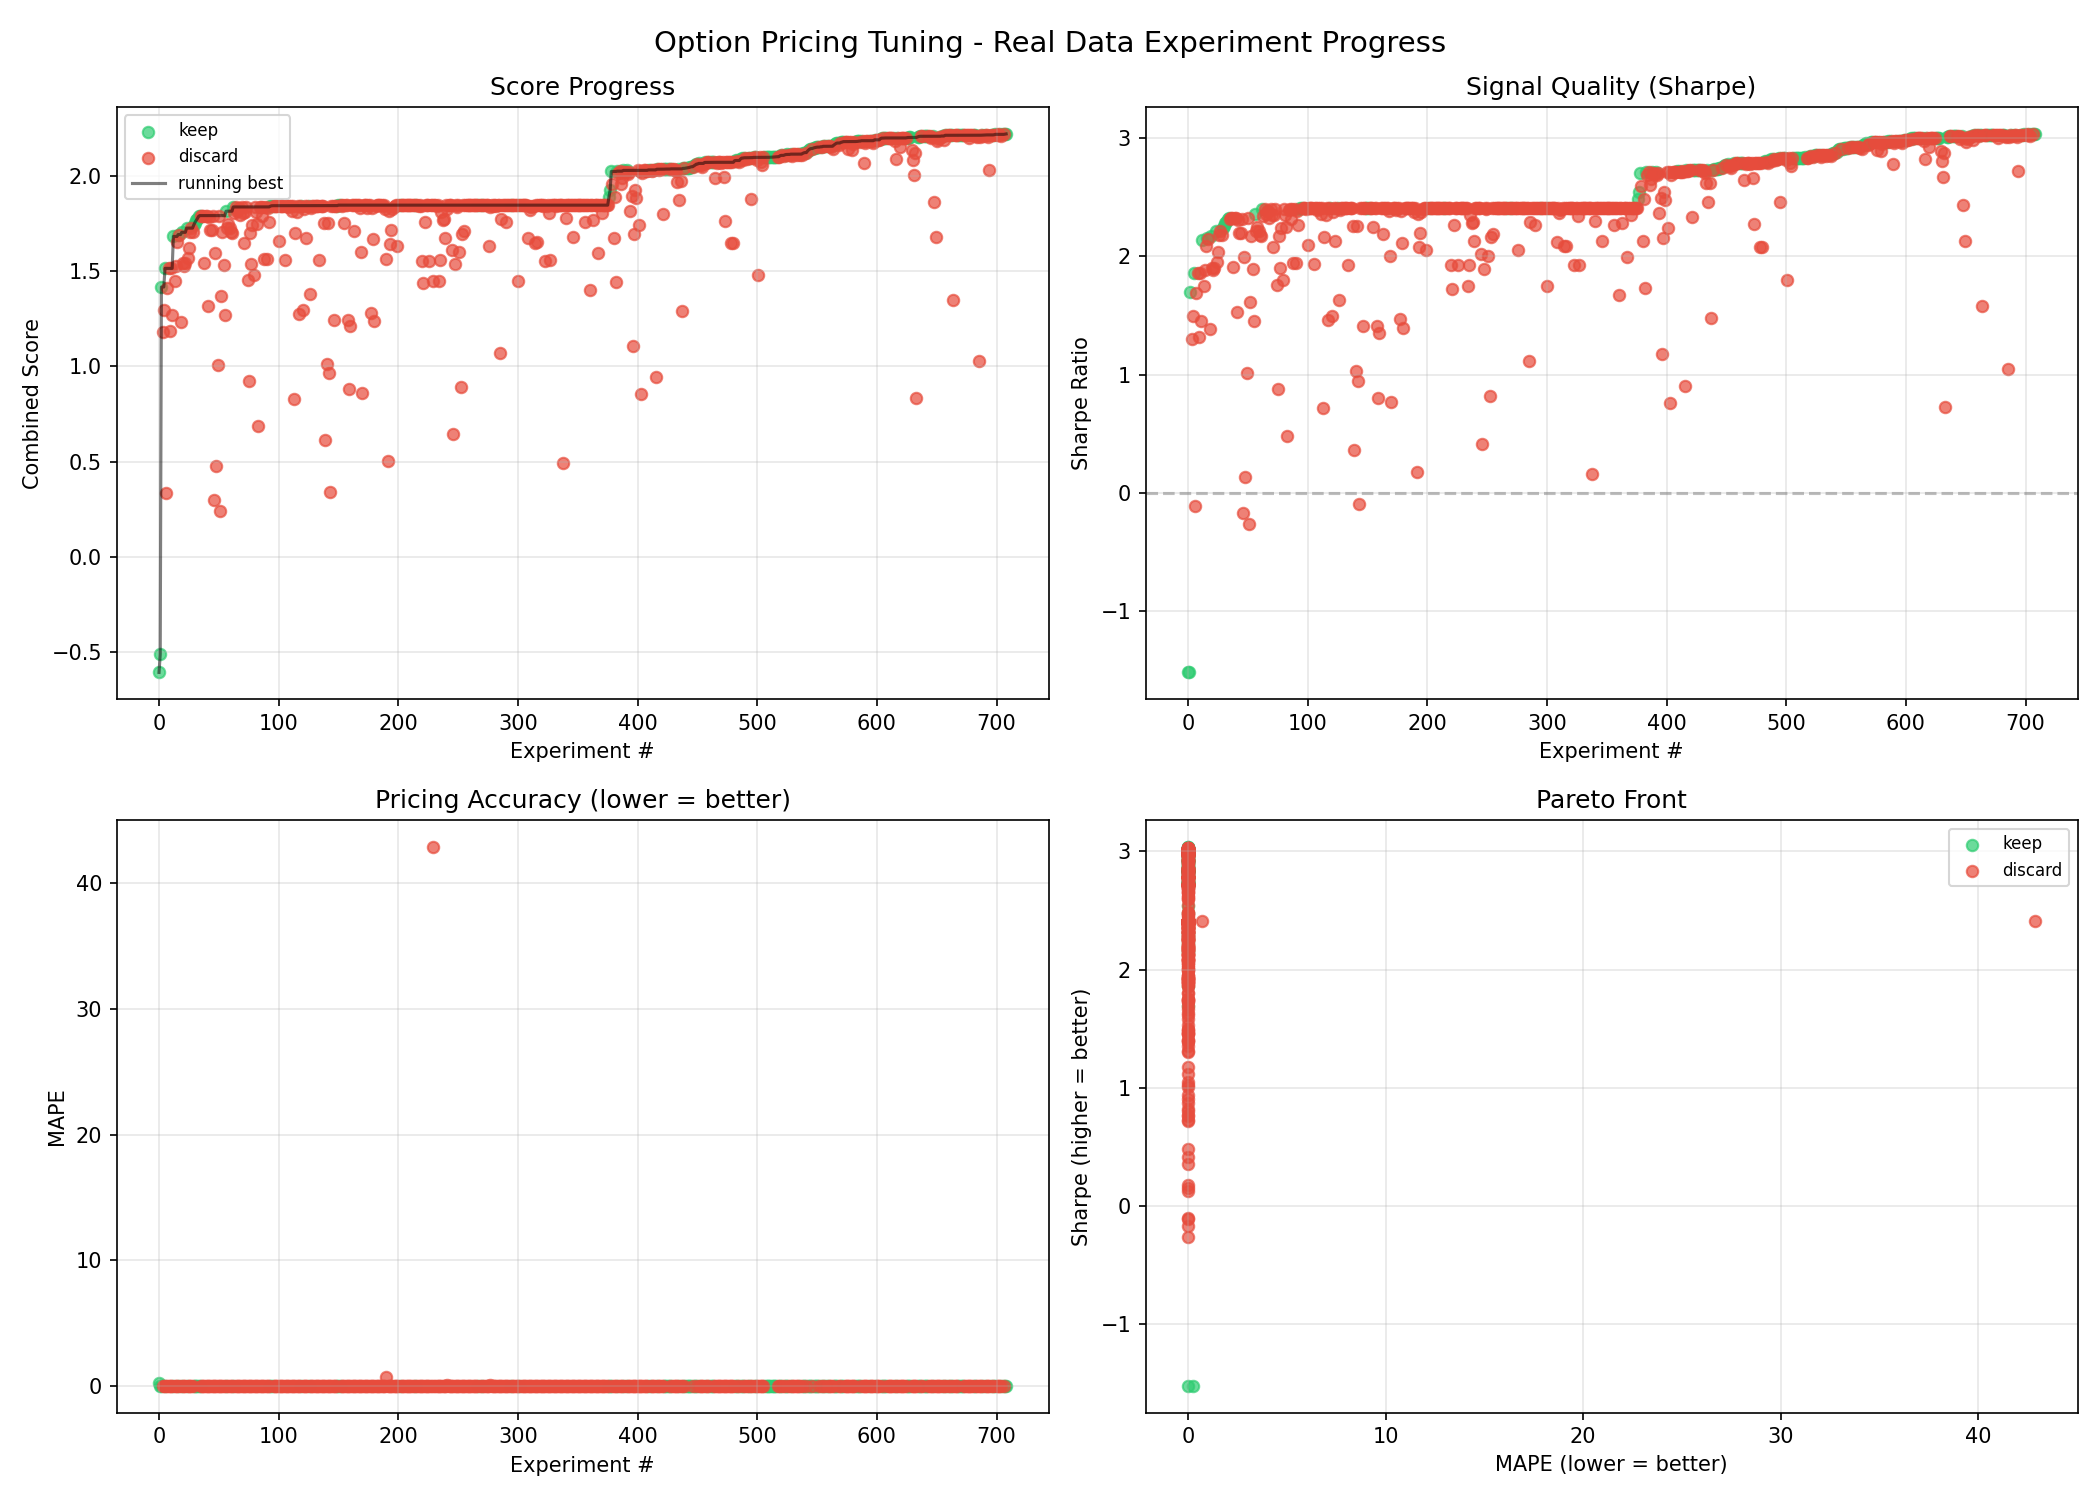
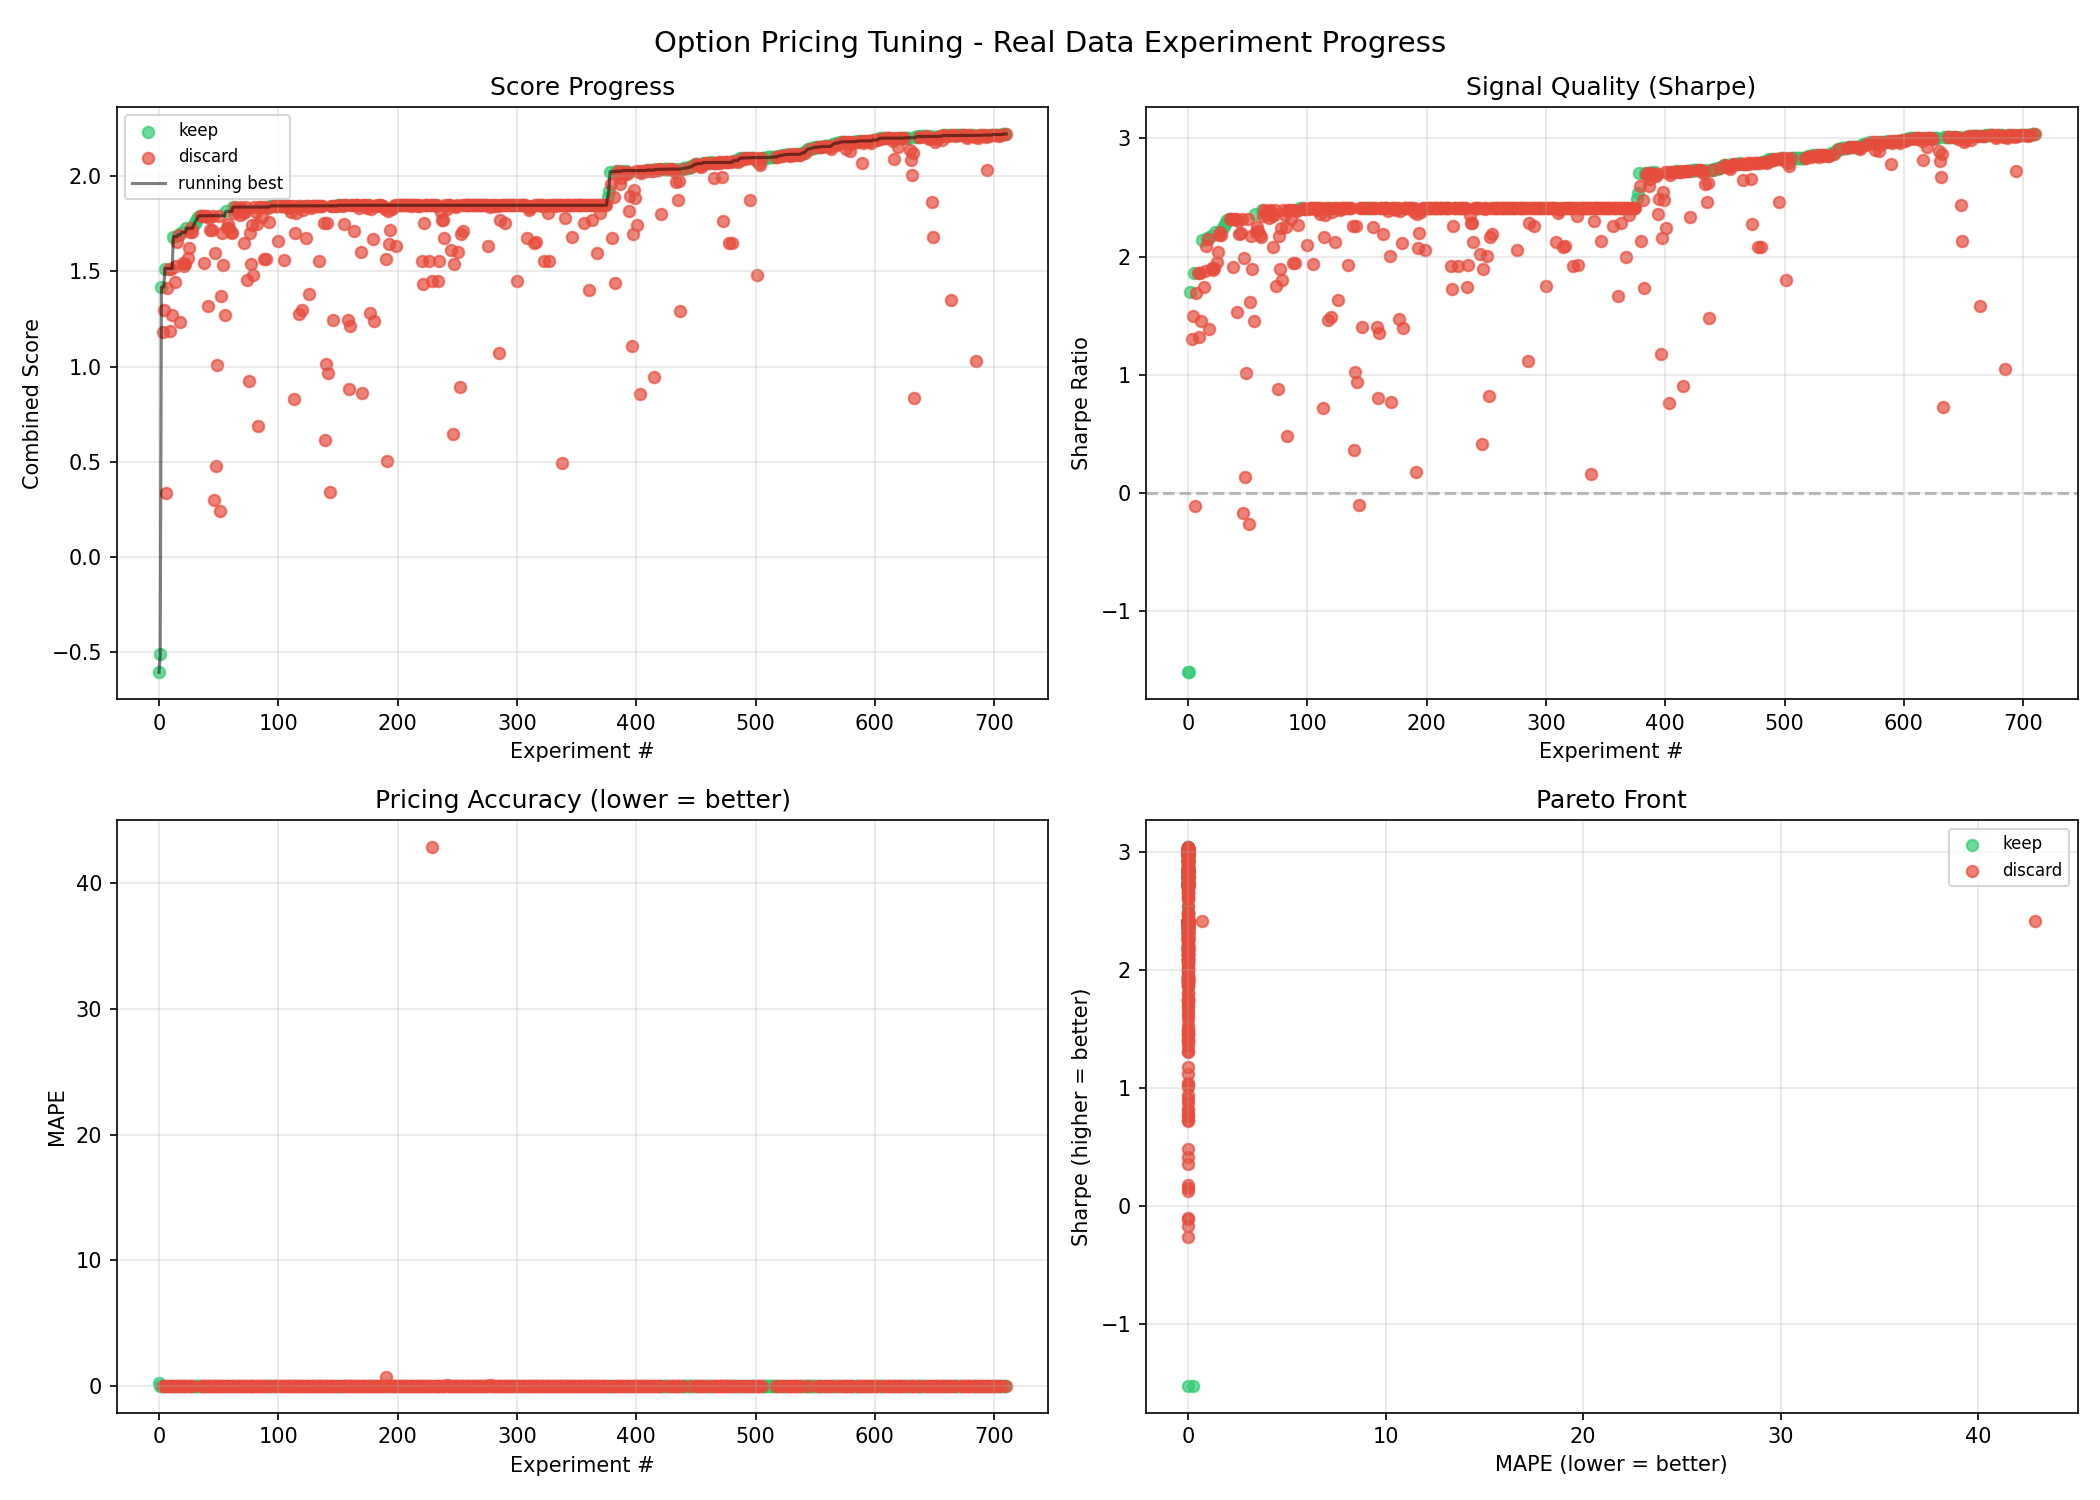
log exp711

diff --git a/README.md b/README.md
@@ -9,12 +9,12 @@ signals using **real stock market data** from Yahoo Finance.
 
 | Metric | Value |
 |---|---|
-| Combined Score | 2.2203 |
-| Sharpe Ratio | 3.0351 |
+| Combined Score | 2.2213 |
+| Sharpe Ratio | 3.0368 |
 | MAPE | 0.002003 |
 | Win Rate | 86.2% |
 | Trades | 29 |
-| Experiments | 709 (161 kept) |
+| Experiments | 711 (162 kept) |
 
 ## How It Works
 
